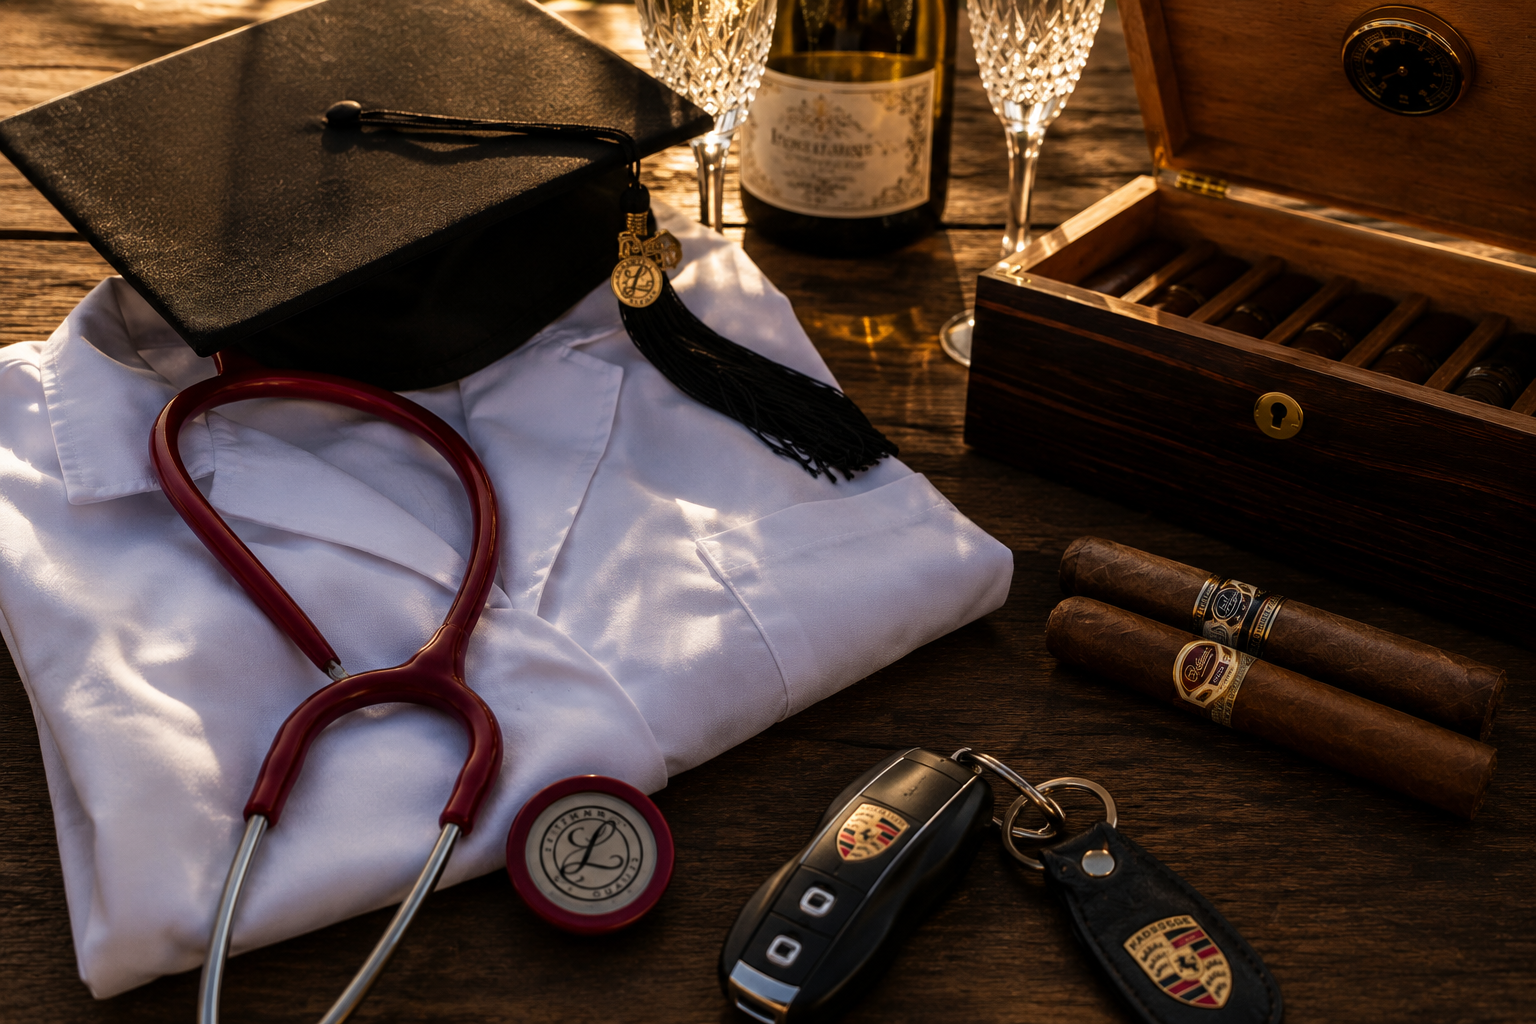
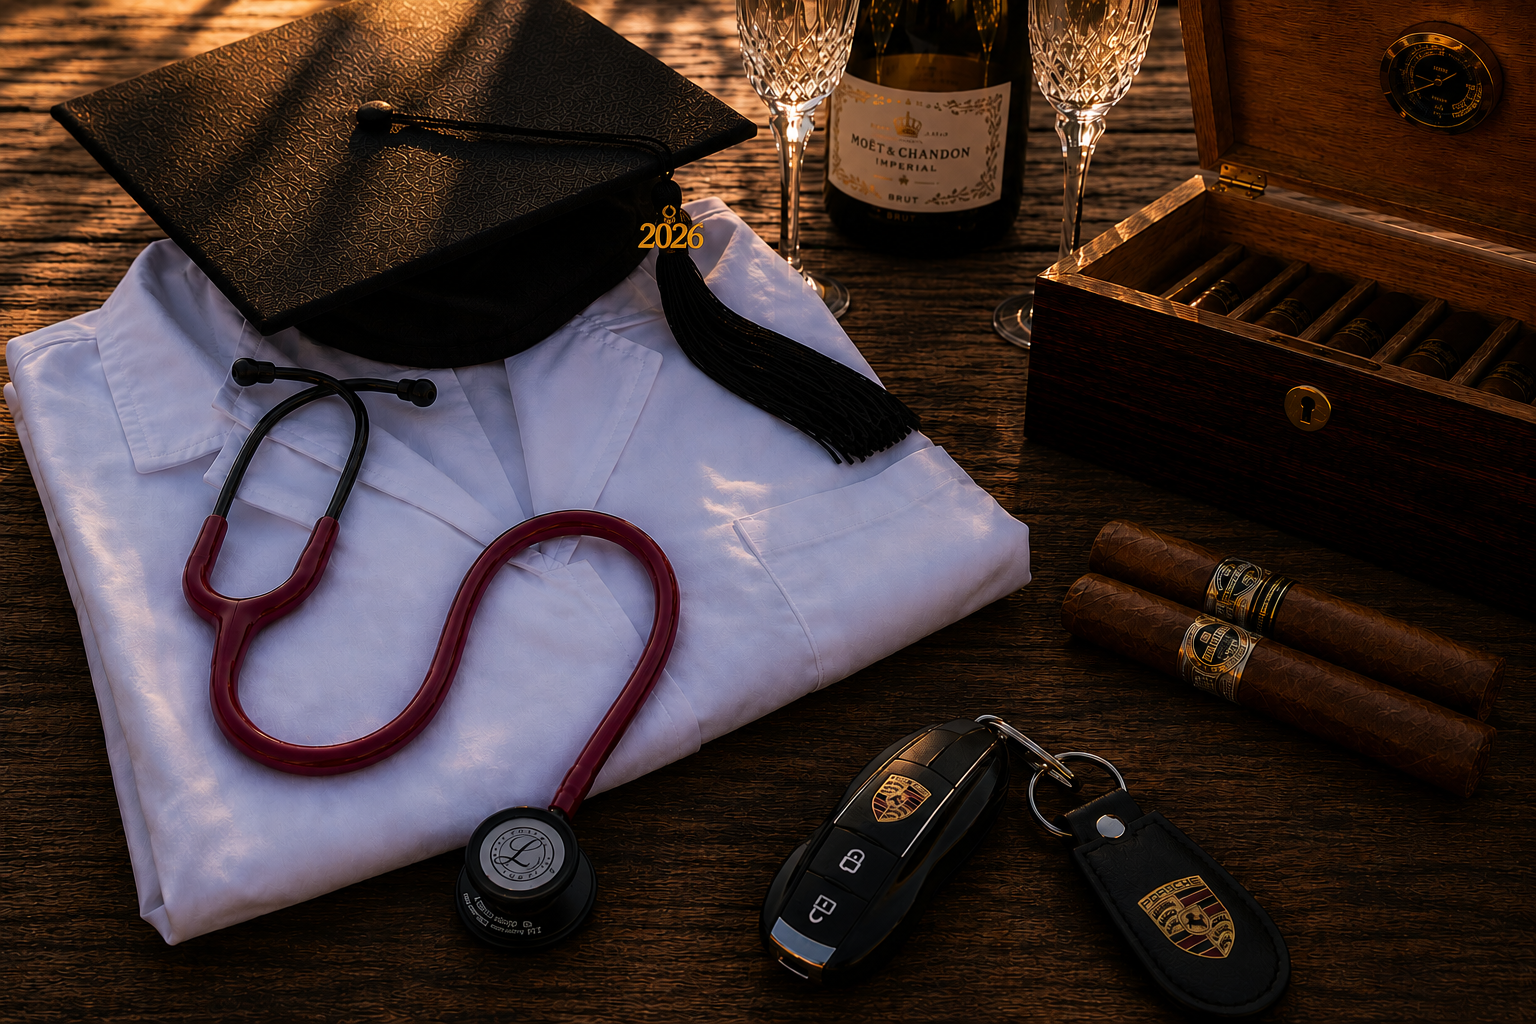
Update graduation image and inquiry email

diff --git a/api/inquiry.js b/api/inquiry.js
@@ -47,61 +47,162 @@ const GOLD = '#C9A961';
 const BLACK = '#0A0A0B';
 const PAPER = '#EBE6D9';
 const ASH = '#8B8478';
+const IVORY = '#F5F1E8';
+const INK = '#1A1A1C';
+
+// Optional hosted logo for the header. Leave unset until a publicly reachable HTTPS
+// URL is available — when empty, the header falls back to styled text branding so no
+// broken image is ever shown. (Base64-embedded images are blocked by Outlook/Gmail.)
+const LOGO_URL = (process.env.INQUIRY_LOGO_URL || '').trim();
 
 function customerEmailHtml({ name, inquiryNumber, eventType, eventDate }) {
-  const rows = [];
-  rows.push(`<tr><td style="padding:6px 0;color:${ASH};font-size:11px;letter-spacing:3px;text-transform:uppercase;">Inquiry Number</td></tr>
-             <tr><td style="padding:0 0 18px;color:${GOLD};font-size:16px;letter-spacing:2px;">${esc(inquiryNumber)}</td></tr>`);
+  // Header branding: hosted logo image if a public URL is configured, otherwise
+  // elegant text wordmark (never a broken image). Text version mirrors the mockup:
+  // serif name with "SEXY" accented, flanked-rule "CONCIERGE" line beneath.
+  const brandmark = LOGO_URL
+    ? `<img src="${LOGO_URL}" width="210" alt="Simply Sexy Cigars" style="display:block;width:210px;max-width:68%;height:auto;border:0;outline:none;text-decoration:none;">`
+    : `<div style="font-family:Georgia,'Times New Roman',serif;font-size:24px;letter-spacing:5px;color:${GOLD};">SIMPLY&nbsp;SEXY&nbsp;CIGARS</div>
+       <table role="presentation" cellpadding="0" cellspacing="0" border="0" align="center" style="margin:12px auto 0;">
+         <tr>
+           <td style="width:40px;height:1px;background-color:${GOLD};font-size:0;line-height:0;">&nbsp;</td>
+           <td style="padding:0 14px;font-family:Helvetica,Arial,sans-serif;font-size:11px;letter-spacing:5px;text-transform:uppercase;color:${GOLD};white-space:nowrap;">Concierge</td>
+           <td style="width:40px;height:1px;background-color:${GOLD};font-size:0;line-height:0;">&nbsp;</td>
+         </tr>
+       </table>`;
+
+  // Inquiry stationery card — Inquiry Number always shown; Event Type / Date only when present.
+  const detailCells = [];
   if (eventType) {
-    rows.push(`<tr><td style="padding:6px 0;color:${ASH};font-size:11px;letter-spacing:3px;text-transform:uppercase;">Event</td></tr>
-               <tr><td style="padding:0 0 18px;color:${PAPER};font-size:15px;">${esc(eventType)}</td></tr>`);
+    detailCells.push(`<td width="50%" align="center" valign="top" style="padding:20px 16px;border-top:1px solid ${GOLD};${eventDate ? `border-right:1px solid ${GOLD};` : ''}">
+                        <div style="font-family:Helvetica,Arial,sans-serif;font-size:10px;letter-spacing:2px;text-transform:uppercase;color:${GOLD};padding-bottom:8px;">Event Type</div>
+                        <div style="font-family:Georgia,'Times New Roman',serif;font-size:15px;color:${INK};">${esc(eventType)}</div>
+                      </td>`);
   }
   if (eventDate) {
-    rows.push(`<tr><td style="padding:6px 0;color:${ASH};font-size:11px;letter-spacing:3px;text-transform:uppercase;">Date</td></tr>
-               <tr><td style="padding:0 0 18px;color:${PAPER};font-size:15px;">${esc(eventDate)}</td></tr>`);
+    detailCells.push(`<td width="50%" align="center" valign="top" style="padding:20px 16px;border-top:1px solid ${GOLD};">
+                        <div style="font-family:Helvetica,Arial,sans-serif;font-size:10px;letter-spacing:2px;text-transform:uppercase;color:${GOLD};padding-bottom:8px;">Event Date</div>
+                        <div style="font-family:Georgia,'Times New Roman',serif;font-size:15px;color:${INK};">${esc(eventDate)}</div>
+                      </td>`);
   }
+  const detailRow = detailCells.length
+    ? `<tr><td style="padding:0;"><table role="presentation" width="100%" cellpadding="0" cellspacing="0" border="0"><tr>${detailCells.join('')}</tr></table></td></tr>`
+    : '';
 
   return `<!DOCTYPE html>
-<html>
-<body style="margin:0;padding:0;background-color:${BLACK};">
-  <table role="presentation" width="100%" cellpadding="0" cellspacing="0" style="background-color:${BLACK};">
-    <tr><td align="center" style="padding:48px 24px;">
-      <table role="presentation" width="560" cellpadding="0" cellspacing="0" style="max-width:560px;width:100%;">
+<html lang="en">
+<head>
+  <meta charset="utf-8">
+  <meta name="viewport" content="width=device-width, initial-scale=1.0">
+  <meta name="x-apple-disable-message-reformatting">
+  <title>Your Simply Sexy Cigars Inquiry</title>
+</head>
+<body style="margin:0;padding:0;background-color:${BLACK};-webkit-text-size-adjust:100%;-ms-text-size-adjust:100%;">
+  <span style="display:none;font-size:1px;color:${BLACK};max-height:0;max-width:0;opacity:0;overflow:hidden;">Your inquiry has been received — a concierge specialist will be in touch shortly.</span>
+  <table role="presentation" width="100%" cellpadding="0" cellspacing="0" border="0" style="background-color:${BLACK};">
+    <tr><td align="center" style="padding:24px 12px;">
+      <table role="presentation" width="600" cellpadding="0" cellspacing="0" border="0" style="max-width:600px;width:100%;">
 
-        <tr><td align="center" style="padding-bottom:36px;">
-          <div style="font-family:Georgia,'Times New Roman',serif;font-size:26px;letter-spacing:4px;color:${PAPER};">SIMPLY <span style="color:${GOLD};font-style:italic;">SEXY</span> CIGARS</div>
-          <div style="height:1px;width:64px;background-color:${GOLD};opacity:0.5;margin:20px auto 0;"></div>
+        <!-- HEADER (black) -->
+        <tr><td align="center" style="background-color:${BLACK};padding:38px 24px 30px;">
+          ${brandmark}
         </td></tr>
 
-        <tr><td style="font-family:Georgia,'Times New Roman',serif;font-style:italic;font-size:22px;line-height:1.5;color:${PAPER};text-align:center;padding-bottom:32px;">
-          Your inquiry has been received.
+        <!-- FRAMED BODY: thin gold frame wrapping the ivory content -->
+        <tr><td style="background-color:${BLACK};padding:0 20px 24px;">
+          <table role="presentation" width="100%" cellpadding="0" cellspacing="0" border="0" style="border:1px solid ${GOLD};background-color:${IVORY};">
+            <tr><td style="padding:46px 40px 42px;">
+
+              <table role="presentation" width="100%" cellpadding="0" cellspacing="0" border="0">
+                <tr><td align="center" style="font-family:Georgia,'Times New Roman',serif;font-size:25px;line-height:1.35;color:${INK};padding-bottom:18px;">
+                  Your Simply Sexy Cigars<br>Inquiry Has Been Received
+                </td></tr>
+                <tr><td align="center" style="padding-bottom:34px;">
+                  <table role="presentation" cellpadding="0" cellspacing="0" border="0" align="center" style="margin:0 auto;">
+                    <tr>
+                      <td style="width:46px;height:1px;background-color:${GOLD};font-size:0;line-height:0;">&nbsp;</td>
+                      <td style="padding:0 10px;font-family:Georgia,serif;color:${GOLD};font-size:13px;line-height:1;">&#9670;</td>
+                      <td style="width:46px;height:1px;background-color:${GOLD};font-size:0;line-height:0;">&nbsp;</td>
+                    </tr>
+                  </table>
+                </td></tr>
+              </table>
+
+              <table role="presentation" width="100%" cellpadding="0" cellspacing="0" border="0">
+                <tr><td style="font-family:Helvetica,Arial,sans-serif;font-size:15px;line-height:1.85;color:#3A3A3C;padding-bottom:16px;">
+                  Dear <span style="color:${GOLD};">${esc(name)}</span>,
+                </td></tr>
+                <tr><td style="font-family:Helvetica,Arial,sans-serif;font-size:15px;line-height:1.85;color:#3A3A3C;padding-bottom:16px;">
+                  Thank you for allowing Simply Sexy Cigars Concierge to be a part of your upcoming celebration.
+                </td></tr>
+                <tr><td style="font-family:Helvetica,Arial,sans-serif;font-size:15px;line-height:1.85;color:#3A3A3C;padding-bottom:34px;">
+                  We have received the details of your inquiry, and one of our concierge specialists will be in touch with you shortly.
+                </td></tr>
+              </table>
+
+              <!-- Inquiry stationery card -->
+              <table role="presentation" width="100%" cellpadding="0" cellspacing="0" border="0" style="background-color:${IVORY};border:1px solid ${GOLD};">
+                <tr><td style="padding:30px 24px 26px;" align="center">
+                  <div style="font-family:Helvetica,Arial,sans-serif;font-size:11px;letter-spacing:3px;text-transform:uppercase;color:${GOLD};padding-bottom:12px;">Your Inquiry Number</div>
+                  <div style="font-family:Georgia,'Times New Roman',serif;font-size:25px;letter-spacing:2px;color:${INK};">${esc(inquiryNumber)}</div>
+                </td></tr>
+                ${detailRow}
+              </table>
+
+              <table role="presentation" width="100%" cellpadding="0" cellspacing="0" border="0">
+                <tr><td style="font-family:Helvetica,Arial,sans-serif;font-size:15px;line-height:1.85;color:#3A3A3C;padding:34px 0 0;">
+                  In the meantime, should you have any additional details or questions, please don&#39;t hesitate to reach out.
+                </td></tr>
+              </table>
+
+              <!-- Quote (dark ink on ivory, generous spacing) -->
+              <table role="presentation" width="100%" cellpadding="0" cellspacing="0" border="0">
+                <tr><td align="center" style="padding:36px 0 24px;">
+                  <table role="presentation" cellpadding="0" cellspacing="0" border="0" style="margin:0 auto 24px;"><tr><td style="width:50px;height:1px;background-color:${GOLD};font-size:0;line-height:0;">&nbsp;</td></tr></table>
+                  <div style="font-family:Georgia,'Times New Roman',serif;font-style:italic;font-size:18px;line-height:1.75;color:${INK};padding:0 16px;">
+                    &#8220;Luxury is not measured by what is purchased.<br>It is measured by what is remembered.&#8221;
+                  </div>
+                  <table role="presentation" cellpadding="0" cellspacing="0" border="0" style="margin:24px auto 0;"><tr><td style="width:50px;height:1px;background-color:${GOLD};font-size:0;line-height:0;">&nbsp;</td></tr></table>
+                </td></tr>
+              </table>
+
+              <!-- Signature: understated styled script for "Lola" (no image, no flourish) -->
+              <table role="presentation" width="100%" cellpadding="0" cellspacing="0" border="0">
+                <tr><td style="font-family:Helvetica,Arial,sans-serif;font-size:15px;line-height:1.7;color:#3A3A3C;padding-top:16px;">
+                  Warm regards,
+                </td></tr>
+                <tr><td style="padding:6px 0 4px;">
+                  <span style="font-family:'Snell Roundhand','Apple Chancery','Segoe Script',Georgia,serif;font-style:italic;font-size:34px;line-height:1;color:${INK};">Lola</span>
+                </td></tr>
+                <tr><td style="font-family:Helvetica,Arial,sans-serif;font-size:11px;letter-spacing:2px;text-transform:uppercase;color:${GOLD};padding-top:6px;">
+                  Simply Sexy Cigars Concierge
+                </td></tr>
+              </table>
+
+            </td></tr>
+          </table>
         </td></tr>
 
-        <tr><td style="font-family:Helvetica,Arial,sans-serif;font-size:15px;line-height:1.8;color:${PAPER};padding-bottom:28px;">
-          Dear ${esc(name)},<br><br>
-          Thank you for considering Simply Sexy Cigars for your celebration. Your inquiry is in hand, and Lola will personally review your event details and be in touch shortly to begin the conversation.
-        </td></tr>
-
-        <tr><td style="border-top:1px solid rgba(201,169,97,0.25);border-bottom:1px solid rgba(201,169,97,0.25);padding:24px 0;">
-          <table role="presentation" cellpadding="0" cellspacing="0" style="font-family:Helvetica,Arial,sans-serif;">${rows.join('')}</table>
-        </td></tr>
-
-        <tr><td align="center" style="padding:40px 20px;">
-          <div style="height:1px;width:48px;background-color:${GOLD};opacity:0.5;margin:0 auto 24px;"></div>
-          <div style="font-family:Georgia,'Times New Roman',serif;font-style:italic;font-size:18px;line-height:1.6;color:${PAPER};">
-            Luxury is not measured by what is purchased.<br>It is measured by what is remembered.
-          </div>
-        </td></tr>
-
-        <tr><td style="font-family:Helvetica,Arial,sans-serif;font-size:14px;line-height:1.8;color:${PAPER};padding-bottom:36px;">
-          If any detail of your event changes, or if you simply wish to talk it through, reply to this email and it will reach Lola directly.<br><br>
-          Warm regards,<br>
-          <span style="color:${GOLD};">The Simply Sexy Cigars Concierge</span>
-        </td></tr>
-
-        <tr><td align="center" style="border-top:1px solid rgba(201,169,97,0.2);padding-top:28px;">
-          <div style="font-family:Georgia,'Times New Roman',serif;font-style:italic;font-size:13px;color:${GOLD};">Experience First. Cigars Always.</div>
-          <div style="font-family:Helvetica,Arial,sans-serif;font-size:10px;letter-spacing:2px;color:${ASH};margin-top:14px;">SERVING NORTHERN CALIFORNIA</div>
+        <!-- FOOTER (black): three balanced gold-symbol contact items -->
+        <tr><td align="center" style="background-color:${BLACK};padding:8px 24px 34px;">
+          <table role="presentation" cellpadding="0" cellspacing="0" border="0" align="center" style="margin:0 auto 20px;"><tr><td style="width:50px;height:1px;background-color:${GOLD};font-size:0;line-height:0;">&nbsp;</td></tr></table>
+          <table role="presentation" cellpadding="0" cellspacing="0" border="0" align="center" style="margin:0 auto;">
+            <tr>
+              <td align="center" width="180" style="padding:0 6px;font-family:Helvetica,Arial,sans-serif;">
+                <div style="color:${GOLD};font-size:16px;line-height:1.4;">&#9993;</div>
+                <a href="mailto:lola@simplysexycigars.com" style="color:${PAPER};text-decoration:none;font-size:12px;">lola@simplysexycigars.com</a>
+              </td>
+              <td align="center" width="150" style="padding:0 6px;font-family:Helvetica,Arial,sans-serif;">
+                <div style="color:${GOLD};font-size:16px;line-height:1.4;">&#9788;</div>
+                <a href="https://simplysexycigars.com" style="color:${PAPER};text-decoration:none;font-size:12px;">simplysexycigars.com</a>
+              </td>
+              <td align="center" width="150" style="padding:0 6px;font-family:Helvetica,Arial,sans-serif;">
+                <div style="color:${GOLD};font-size:16px;line-height:1.4;">&#9673;</div>
+                <a href="https://www.instagram.com/simplysexycigars/" style="color:${PAPER};text-decoration:none;font-size:12px;">@simplysexycigars</a>
+              </td>
+            </tr>
+          </table>
+          <div style="font-family:Georgia,'Times New Roman',serif;font-style:italic;font-size:12px;color:${GOLD};padding-top:26px;">Experience First. Cigars Always.</div>
+          <div style="font-family:Helvetica,Arial,sans-serif;font-size:10px;letter-spacing:2px;color:${ASH};padding-top:10px;">SERVING NORTHERN CALIFORNIA</div>
         </td></tr>
 
       </table>
@@ -268,14 +369,14 @@ export default async function handler(req, res) {
 
     const emailJobs = [
       resend.emails.send({
-        from: `Simply Sexy Cigars <${process.env.INQUIRY_FROM_EMAIL}>`,
+        from: `Simply Sexy Cigars Concierge <${process.env.INQUIRY_FROM_EMAIL}>`,
         to: notificationRecipients,
         replyTo: data.email,
         subject: `🔥 New Inquiry #${inquiryNumber}`,
         html: internalEmailHtml(data, inquiryNumber, submittedAt),
       }),
       resend.emails.send({
-        from: `Simply Sexy Cigars <${process.env.INQUIRY_FROM_EMAIL}>`,
+        from: `Simply Sexy Cigars Concierge <${process.env.INQUIRY_FROM_EMAIL}>`,
         to: data.email,
         replyTo: process.env.INQUIRY_REPLY_TO_EMAIL,
         subject: 'Your Simply Sexy Cigars Inquiry Has Been Received',
